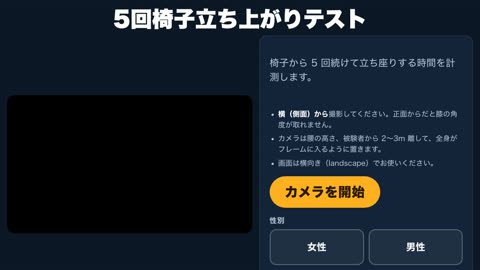
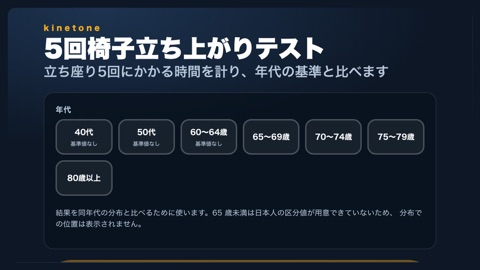
椅子立ち上がり: 配置図を外す／ホーム: カードの高さを揃える
配置図は文章と重複していたので外し、ホームのサムネイルも新しい最初の
画面で撮り直した。ホームのカードは grid-auto-rows:1fr と <li> の
flex で全て同じ高さにした（名前や説明の行数が違っても凸凹しない）。

Claude-Session: https://claude.ai/code/session_01YFgCt1pBd1bUUELXho3yRb

diff --git a/home/index.html b/home/index.html
@@ -42,10 +42,15 @@
      margin:clamp(14px,2.4vh,24px) 0 clamp(8px,1.4vh,14px);}
   h2::after{content:"";flex:1;height:1px;background:var(--line);}
 
+  /* grid-auto-rows:1fr で全ての行を同じ高さにする。名前や説明の行数が違っても
+     カードの大きさが揃い、並べたときに凸凹しない */
   .tiles{display:grid;gap:clamp(10px,1.4vw,18px);
          grid-template-columns:repeat(auto-fill,minmax(min(100%,240px),1fr));
+         grid-auto-rows:1fr;
          list-style:none;padding:0;margin:0;}
-  .tile{display:block;text-decoration:none;color:inherit;
+  /* カードは <li> の高さいっぱいまで伸ばす（<a> のままだと中身の分しか伸びない） */
+  .tiles > li{display:flex;}
+  .tile{display:flex;flex-direction:column;width:100%;text-decoration:none;color:inherit;
         background:var(--card);border-radius:18px;overflow:hidden;
         box-shadow:0 6px 18px #1822341a, inset 0 0 0 1px var(--line);
         transition:background .15s ease, transform .08s ease;}
@@ -53,9 +58,10 @@
   .tile:active{transform:translateY(2px);}
   .tile:focus-visible{outline:3px solid var(--accent);outline-offset:3px;}
   /* サムネイルは 16:9 で書き出してあるので、幅だけ合わせれば切れずに収まる */
-  .tile img{display:block;width:100%;height:auto;background:#e7ebf2;}
-  /* span のままだと中のブロック要素に左右の padding が効かないので block にする */
-  .tile .body{display:block;padding:clamp(12px,1.6vw,18px) clamp(16px,2vw,22px) clamp(14px,2vw,20px);}
+  .tile img{display:block;flex:0 0 auto;width:100%;height:auto;background:#e7ebf2;}
+  /* span のままだと中のブロック要素に左右の padding が効かないので block にする。
+     余った高さはここで受けて、カードの下端まで白地を伸ばす */
+  .tile .body{display:block;flex:1;padding:clamp(12px,1.6vw,18px) clamp(16px,2vw,22px) clamp(14px,2vw,20px);}
   /* どこを動かす遊びか・何人で遊ぶかを一目で分かるように */
   .tile .tags{display:flex;flex-wrap:wrap;gap:.4em;margin-bottom:.55em;}
   .tile .tag{display:inline-block;
